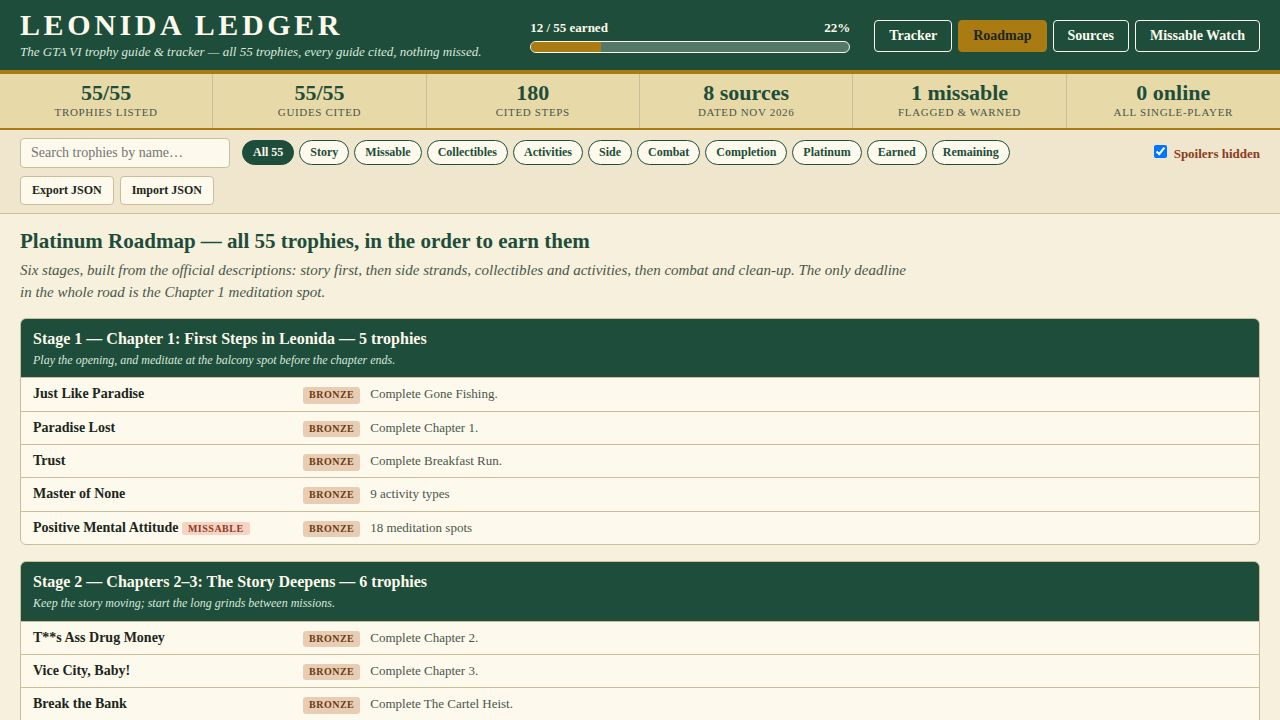
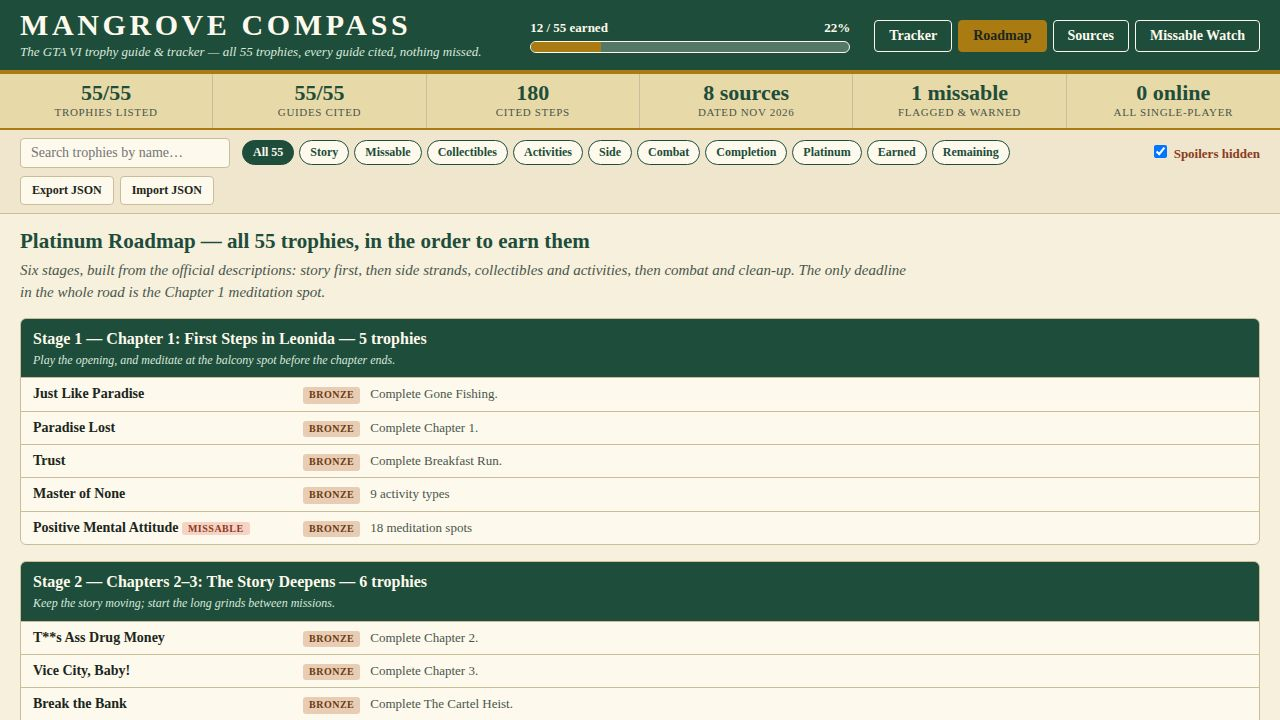
Mangrove Compass: all 55 GTA VI trophies with 180 cited steps from 8 sources, platinum roadmap and missable watch

Changed region(s): [[0.0, 0.0, 0.3125, 0.0611]]

diff --git a/app/index.html b/app/index.html
@@ -3,14 +3,14 @@
 <head>
 <meta charset="utf-8">
 <meta name="viewport" content="width=device-width, initial-scale=1">
-<title>Leonida Ledger — GTA VI Trophy Guide &amp; Tracker</title>
+<title>Mangrove Compass — GTA VI Trophy Guide &amp; Tracker</title>
 <link rel="stylesheet" href="style.css">
 <script type="module" src="js/app.js"></script>
 </head>
 <body>
 <header class="masthead">
   <div class="brand">
-    <h1>LEONIDA LEDGER</h1>
+    <h1>MANGROVE COMPASS</h1>
     <p class="tagline">The GTA VI trophy guide &amp; tracker — all 55 trophies, every guide cited, nothing missed.</p>
   </div>
   <div class="progress-block">
@@ -68,7 +68,7 @@
 </main>
 
 <footer>
-  <p>Leonida Ledger — an unofficial fan guide. Names, descriptions and grades are PlayStation's official list as published by Exophase and PSNProfiles, 18 Nov 2026. All guide text is written fresh for this entry; sources are cited, never copied. No Rockstar artwork is used. Progress saves in this browser only.</p>
+  <p>Mangrove Compass — an unofficial fan guide. Names, descriptions and grades are PlayStation's official list as published by Exophase and PSNProfiles, 18 Nov 2026. All guide text is written fresh for this entry; sources are cited, never copied. No Rockstar artwork is used. Progress saves in this browser only.</p>
 </footer>
 </body>
 </html>

diff --git a/app/js/storage.js b/app/js/storage.js
@@ -1,8 +1,8 @@
 // storage.js — saved progress in localStorage, plus JSON export and import.
 // Nothing leaves the browser except a file the reader asks for.
 
-const EARNED_KEY = 'leonida-ledger-earned-v3';
-const SPOILER_KEY = 'leonida-ledger-spoilers-v3';
+const EARNED_KEY = 'mangrove-compass-earned-v3';
+const SPOILER_KEY = 'mangrove-compass-spoilers-v3';
 
 export function loadEarned() {
   try {
@@ -42,7 +42,7 @@ export function saveSpoilersOn(on) {
 
 export function exportProgress(earned) {
   const payload = {
-    app: 'Leonida Ledger',
+    app: 'Mangrove Compass',
     version: 3,
     exportedAt: new Date().toISOString(),
     earned: Array.from(earned).sort((a, b) => a - b),
@@ -51,7 +51,7 @@ export function exportProgress(earned) {
   const url = URL.createObjectURL(blob);
   const link = document.createElement('a');
   link.href = url;
-  link.download = 'leonida-ledger-progress.json';
+  link.download = 'mangrove-compass-progress.json';
   document.body.appendChild(link);
   link.click();
   link.remove();

diff --git a/app/js/app.js b/app/js/app.js
@@ -1,4 +1,4 @@
-// app.js — bootstrap and view routing for the Leonida Ledger.
+// app.js — bootstrap and view routing for the Mangrove Compass.
 //
 // Loads the trophy data, wires the tracker, filters, spoiler toggle and
 // export/import, and routes by hash: #trophy-<id> opens a guide,
@@ -131,7 +131,7 @@ function wireEvents() {
       saveEarned(state.earned);
       refreshAll();
     } catch (_err) {
-      window.alert('That file could not be imported — it holds no Leonida Ledger progress.');
+      window.alert('That file could not be imported — it holds no Mangrove Compass progress.');
     }
     importFile.value = '';
   });

diff --git a/main.ts b/main.ts
@@ -1,4 +1,4 @@
-// Leonida Ledger — hand-in program (Node 22, standard library only).
+// Mangrove Compass — hand-in program (Node 22, standard library only).
 //
 // The guide itself is the static files under app/: a tracker and cited
 // walkthrough for all 55 Grand Theft Auto VI trophies, served from

diff --git a/app/style.css b/app/style.css
@@ -1,4 +1,4 @@
-/* Leonida Ledger — a field-guide ledger: cream paper, dark ink, gold and
+/* Mangrove Compass — a field-guide ledger: cream paper, dark ink, gold and
    deep green. Serif display type, high contrast, readable when shrunk. */
 
 :root {

diff --git a/README.md b/README.md
@@ -1,4 +1,4 @@
-# Leonida Ledger: all 55 GTA VI trophies with 180 cited steps from 8 sources, a platinum roadmap and a missable watch
+# Mangrove Compass: all 55 GTA VI trophies with 180 cited steps from 8 sources, a platinum roadmap and a missable watch
 
 [![make.fun](https://make.fun/badge/gta6-trophy-guide-01.svg)](https://make.fun/bounty/gta6-trophy-guide-01)
 [![rank](https://make.fun/badge/gta6-trophy-guide-01/efrendi111094-crypto/gta6-trophy-guide-03/rank.svg)](https://make.fun/bounty/gta6-trophy-guide-01)
